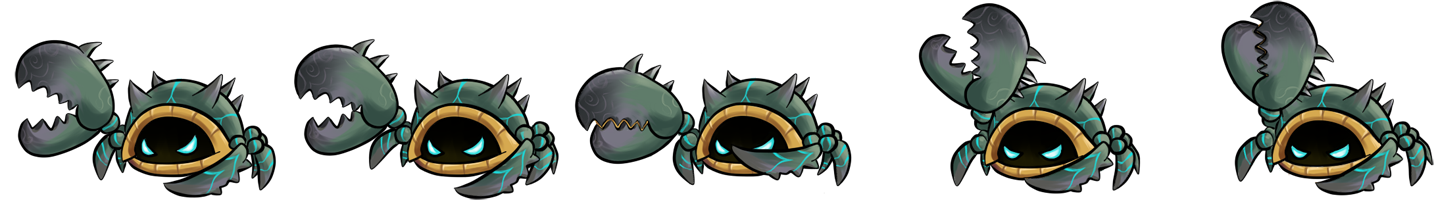
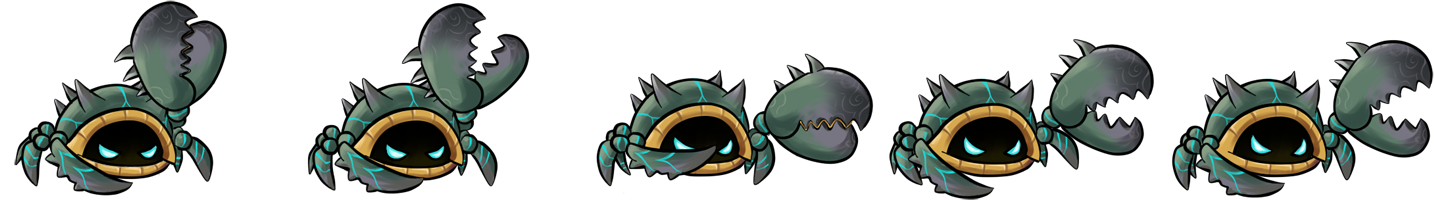
added item panel
FYI

diff --git a/online/js/g_config.js b/online/js/g_config.js
@@ -80,7 +80,7 @@ woh.g_config.script={
         type:'map',
         repeat:true,
         data:{},
-        next:'1'
+        next:'5'
     }
 };
 
@@ -95,18 +95,6 @@ woh.g_config.resources = {
         type: 'battle',
         resources: [
             'images/bg/game-bg-beach.jpg',
-            
-            'images/sprites/rio_tang/hit_r1_c1.png',
-            'images/sprites/rio_tang/hit_r1_c2.png',
-            
-            'images/sprites/rio_tang/hurt_r1_c1.png',
-            'images/sprites/rio_tang/hurt_r1_c2.png',
-            
-            'images/sprites/rio_tang/magic_r1_c1.png',
-            'images/sprites/rio_tang/magic_r1_c2.png',
-            
-            'images/sprites/rio_tang/move_r1_c1.png',
-            'images/sprites/rio_tang/move_r1_c2.png',
             
             'images/circle.png',
             'images/pie.png',
@@ -129,15 +117,21 @@ woh.g_config.resources = {
 
 //武器和衣服的动画数据配置,暂时还没独立出来，稍后看看怎么抽（要和换装系统匹配）
 woh.g_config.equipment={
+    '001':{
 
+    }
 }
-
+woh.g_config.clothes={
+    '001':{
+        
+    }
+}
  // 精灵啦啦啦啦
 woh.g_config.sprites = {
     // http://hongru.github.com/proj/laro/Leditor/animation/index.html
     // 跟public 里面 人物 uid 对应， 001 -> 唐如
     
-    "001": {
+    "rio_tang": {
         "areadata": {
             standup:[0,0,140,210],
             standdown:[0,0,140,210]
@@ -281,8 +275,8 @@ woh.g_config.sprites = {
                         ]
                 },
                 "data": [
-                        [0, 0, 190, 120, 0, 0, 190, 120],
-                        [190, 0, 380, 120, 190, 0, 380, 120]
+                        [380,0,569,119,380,0,569,119],
+                        [570,0,759,119,570,0,759,119]
                     ],
                 "filename": "images/monster/normal001-crab.png"
             }
@@ -299,8 +293,8 @@ woh.g_config.sprites = {
                     "events": []
                 },
                 "data": [
-                        [0, 0, 190, 120, 0, 0, 190, 120],
-                        [190, 0, 380, 120, 190, 0, 380, 120]
+                        [380,0,569,119,380,0,569,119],
+                        [570,0,759,119,570,0,759,119]
                 ],
                 "filename": "images/monster/normal001-crab.png"
             }
@@ -317,8 +311,8 @@ woh.g_config.sprites = {
                     "events": []
                 },
                 "data": [
-                    [190, 0, 380, 120, 190, 0, 380, 120],
-                    [380, 0, 570, 120, 380, 0, 570, 120]
+                    [570,0,759,119,570,0,759,119],
+                    [190,0,379,119,190,0,379,119]
                 ],
                 "filename": "images/monster/normal001-crab.png"
             }
@@ -335,8 +329,7 @@ woh.g_config.sprites = {
                     "events": []
                 },
                 "data": [
-                    [190, 0, 380, 120, 190, 0, 380, 120],
-                    [570, 0, 760, 120, 570, 0, 760, 120]
+                    [0,0,189,119,0,0,189,119]
                 ],
                 "filename": "images/monster/normal001-crab.png"
             }

diff --git a/online/css/modules.css b/online/css/modules.css
@@ -21,12 +21,7 @@
 .sub-win .standard-stroke{
 	border:5px solid rgba(255,255,255,.7);
 }
-.map-module .sub-win .ava-bar{width:100%;list-style: none; margin: 0; padding: 0; text-align: center}
-.map-module .sub-win .ava-bar .avar{width:120px; height:120px; display: inline-block; opacity: .7; margin:10px 3px}
-.map-module .sub-win .ava-bar .avar.active{opacity:1}
-.map-module .sub-win .left-block,.sub-win .right-block{height:640px;float:left;}
-.map-module .sub-win .left-block{width: 415px;}
-.map-module .sub-win .right-block{width:525px;}
+
 .intro-module{
 	width:960px;
 	height:640px;
@@ -104,6 +99,29 @@
 	border-radius:30px;
 	box-shadow:0 0 20px white;
 }
+.map-module .sub-win .ava-bar{width:100%;list-style: none; margin: 0; padding: 0; text-align: center}
+.map-module .sub-win .ava-bar .avar{width:120px; height:120px; display: inline-block; opacity: .7; margin:10px 3px}
+.map-module .sub-win .ava-bar .avar.active{opacity:1}
+.map-module .sub-win h1#name{color:white; font-size:24px; font-weight:bold; text-align:center; margin:0; padding:0 0 0 80px;}
+.map-module .sub-win .left-block,.sub-win .right-block{height:640px;float:left;}
+.map-module .sub-win .left-block{width: 415px;}
+.map-module .sub-win .right-block{width:525px;}
+.map-module .sub-win .left-block #clothes,.map-module .sub-win .left-block #preview,.map-module .sub-win .left-block #weapon{float: right;height:230px;}
+.map-module .sub-win .left-block #clothes,.sub-win .left-block #weapon{width:60px; background: url(../resources/images/map/selected_bg.png) no-repeat center 90px; margin-right: 15px}
+.map-module .sub-win .left-block #preview{width:170px;}
+.map-module .sub-win .right-block .description{border:5px solid rgba(255,255,255,.7);background: url(../resources/images/map/description-bg.png) right bottom no-repeat;height: 100px; margin-left: 18px}
+.map-module .sub-win .right-block .items{background: url(../resources/images/map/item_edge.png) repeat-y;height:300px;
+	margin-top: 120px;width: 518px; margin-left: 7px
+}
+.map-module .sub-win .right-block .items .pane{height:210px;padding:10px;border:5px solid rgba(255,255,255,.7);width: 470px; margin-left: 18px}
+.map-module .sub-win#role-manage ul.role-attributes{list-style: none; clear:both;margin: 0; padding: 0 0 0 130px;}
+.map-module .sub-win#role-manage ul.role-attributes li{display: inline-block; width: 40% ;padding:0 10px;}
+.map-module .sub-win#role-manage ul.role-attributes li span{}
+.map-module .sub-win#role-manage .exp-bar{height: 26px; width: 250px;padding-left: 130px; padding-top: 10px;
+	background: url(../resources/images/map/exp-right.png) right bottom no-repeat;
+}
+.map-module .sub-win#role-manage .exp-bar-inner{height: 26px;background: rgba(255,255,255,.7); width: 220px}
+
 .cg-module,.drama-module{
 	width:960px;
 	height:640px;

diff --git a/online/js/module.render.js b/online/js/module.render.js
@@ -168,6 +168,9 @@
         bind:function(){
             _doc.getElementById('map-person').addEventListener('click', function(){
                 roleManager.init();
+            });
+            _doc.getElementById('map-leave').addEventListener('click', function(){
+                woh.gameScript.continueExec();
             })
         }
     }
@@ -178,20 +181,42 @@
           return "<button class='close'>"+
                  "</button>"+
                  "<div class='left-block'>"+
-                     "<ul class='ava-bar'>"+
-                        "<li class='avar standard-stroke active'></li>"+
-                        "<li class='avar standard-stroke'></li>"+
-                        "<li class='avar standard-stroke'></li>"+
-                     "</ul>"+
-                     "<div class='role-info'>"+
-
-                     "</div>"
+                    "<ul class='ava-bar'>"+
+                       "<li class='avar standard-stroke active'></li>"+
+                       "<li class='avar standard-stroke'></li>"+
+                       "<li class='avar standard-stroke'></li>"+
+                    "</ul>"+
+                    "<div class='role-info'>"+
+                        "<h1 id='name'>111<small>Lv:</small></h1>"+
+                        "<div id='clothes'>"+
+                        "</div>"+
+                        "<div id='preview'>"+
+                        "</div>"+
+                        "<div id='weapon'>"+
+                        "</div>"+
+                        "<ul class='role-attributes'>"+
+                            "<li><label>生命：</label><span></span></li>"+
+                            "<li><label>防御：</label><span></span></li>"+
+                            "<li><label>闪避：</label><span></span></li>"+
+                            "<li><label>暴击：</label><span></span></li>"+
+                        "</ul>"+
+                        "<div class='exp-bar'>"+
+                            "<div class='exp-bar-inner'>"+
+                            "</div>"+
+                        "</div>"+
+                     "</div>"+
                  "</div>"+
                  "<div class='right-block'>"+
-
+                    "<div class='items'>"+
+                        "<div class='pane'></div>"+
+                    "</div>"+
+                    "<div class='description'>"+
+                        "<h3 class='name'>"+
+                        "</h3>"+
+                    "</div>"+
                  "</div>"
         },
-        init : function(){
+        init : function(data){
             var roleinfo = _doc.getElementById('role-manage');
             roleinfo.innerHTML = this.tpl();
             roleinfo.style.display = 'block';

diff --git a/online/js/woh.stageBattle.js b/online/js/woh.stageBattle.js
@@ -33,7 +33,7 @@ Laro.NS('woh.stageClass', function (L) {
                 }, e.target);
             }
             // rio_tang
-            this.roles.add('rio_tang', new woh.Role(woh.runtime.role[0], '001'));
+            this.roles.add('rio_tang', new woh.Role(woh.runtime.role[0], 'rio_tang'));
             this.roles.get('rio_tang').setPos(200, 400);
             this.roles.get('rio_tang').stage = this;
             this.roles.add('crab', new woh.Role(woh.runtime.role[0], 'crab'));

diff --git a/online/js/woh.stage.js b/online/js/woh.stage.js
@@ -12,7 +12,6 @@ Laro.NS('woh.stage', function (L) {
         'map': 4, // 大地图场景
         'battle': 5, // 战斗场景
         'gameover': 6, // 战斗结束
-        
         'loading': 7 // 公用资源加载场景，可以出现在每个需要资源预加载的场景前，具体应该加载某个具体的场景资源列表由 message 消息指定.
     };
     this.statesList = [
